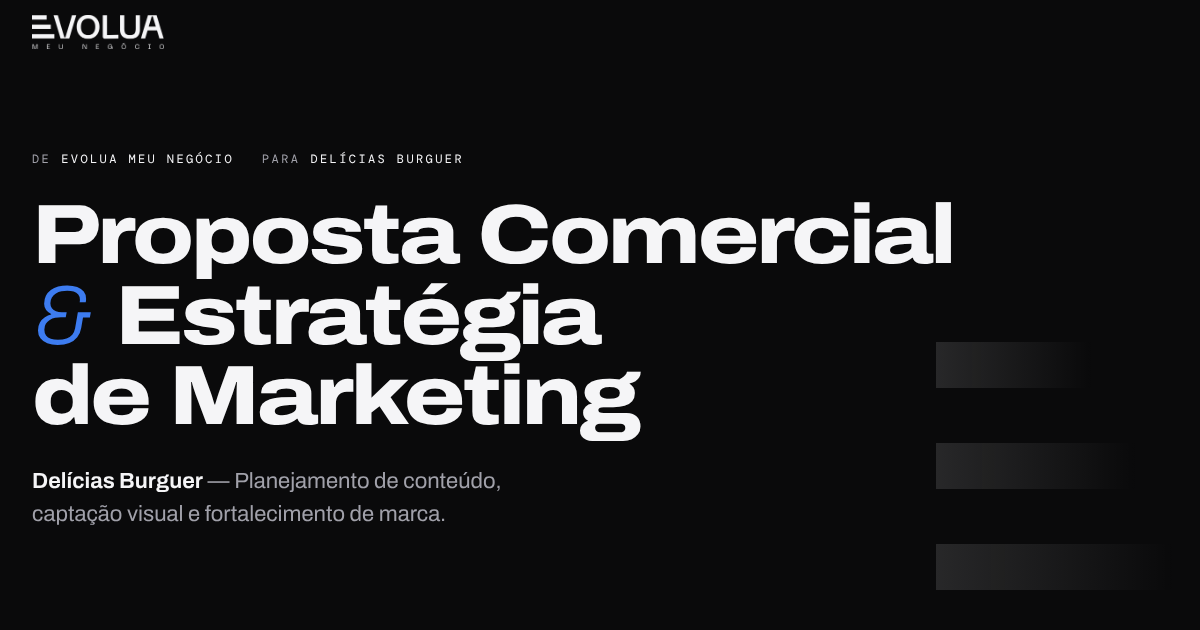
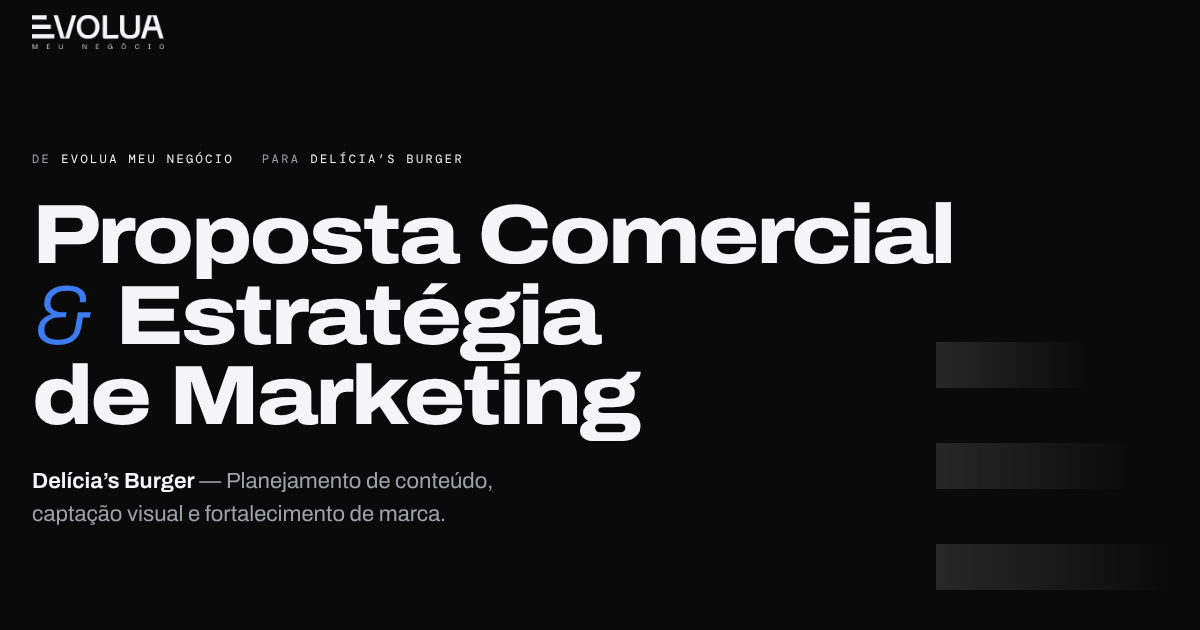
Usa o nome Delícia’s Burger em toda a proposta
O nome do cliente segue o perfil oficial no Instagram, inclusive nas
mensagens prontas do WhatsApp e na imagem de prévia do link.

Claude-Session: https://claude.ai/code/session_015CNoLvbhooBzDsHDVBEyaW

Changed region(s): [[0.0617, 0.754, 0.4317, 0.7841], [0.3083, 0.2413, 0.37, 0.2714]]

diff --git a/propostas/delicias-burguer/site/index.html b/propostas/delicias-burguer/site/index.html
@@ -3,14 +3,14 @@
 <head>
   <meta charset="utf-8" />
   <meta name="viewport" content="width=device-width, initial-scale=1, viewport-fit=cover" />
-  <title>Proposta Delícias Burguer · Evolua Meu Negócio</title>
-  <meta name="description" content="Proposta comercial e estratégia de marketing da Evolua Meu Negócio para a Delícias Burguer: planos mensais de posts, vídeos e ensaios fotográficos." />
+  <title>Proposta Delícia’s Burger · Evolua Meu Negócio</title>
+  <meta name="description" content="Proposta comercial e estratégia de marketing da Evolua Meu Negócio para a Delícia’s Burger: planos mensais de posts, vídeos e ensaios fotográficos." />
   <!-- Proposta para um cliente específico: fora dos buscadores. -->
   <meta name="robots" content="noindex, nofollow" />
   <meta name="theme-color" content="#0a0a0b" />
   <meta property="og:type" content="website" />
   <meta property="og:locale" content="pt_BR" />
-  <meta property="og:title" content="Proposta Comercial · Delícias Burguer" />
+  <meta property="og:title" content="Proposta Comercial · Delícia’s Burger" />
   <meta property="og:description" content="Planejamento de conteúdo, captação visual e fortalecimento de marca. Planos a partir de R$ 600,00 por mês." />
   <meta property="og:url" content="https://proposta-delicias-burguer.bottlenose-derby.workers.dev/" />
   <meta property="og:image" content="https://proposta-delicias-burguer.bottlenose-derby.workers.dev/og.png" />
@@ -834,10 +834,10 @@
       <div class="wrap hero__in">
         <p class="remetente" data-entra style="--d:0">
           <span><em>De</em>Evolua Meu Negócio</span>
-          <span><em>Para</em>Delícias Burguer</span>
+          <span><em>Para</em>Delícia’s Burger</span>
         </p>
         <h1 class="hero__titulo" id="titulo" data-entra style="--d:1">Proposta Comercial <span class="amp">&amp;</span> Estratégia de Marketing</h1>
-        <p class="hero__sub" data-entra style="--d:2"><strong>Delícias Burguer</strong> — Planejamento de conteúdo, captação visual e fortalecimento de marca.</p>
+        <p class="hero__sub" data-entra style="--d:2"><strong>Delícia’s Burger</strong> — Planejamento de conteúdo, captação visual e fortalecimento de marca.</p>
         <div class="hero__acoes" data-entra style="--d:3">
           <a class="btn btn--cheio" href="#planos">Ver os planos</a>
           <a class="link-seta" href="#comparativo"><span>Comparar o escopo</span>
@@ -855,7 +855,7 @@
         <div>
           <p class="rotulo">Diagnóstico e necessidades</p>
           <h2 class="titulo-secao" id="diag-titulo">Três pilares de melhoria</h2>
-          <p class="intro">A decisão de pedir acontece no celular: no feed, nos vídeos e no site de pedidos. Para a Delícias Burguer ser escolhida ali, o lanche precisa aparecer bem, com frequência e com informação clara.</p>
+          <p class="intro">A decisão de pedir acontece no celular: no feed, nos vídeos e no site de pedidos. Para a Delícia’s Burger ser escolhida ali, o lanche precisa aparecer bem, com frequência e com informação clara.</p>
         </div>
         <ul class="pilares">
           <li class="pilar">
@@ -928,7 +928,7 @@
 
             <div class="plano__acao">
               <a class="btn btn--contorno btn--largo" data-plano="essencial" target="_blank" rel="noopener"
-                 href="https://wa.me/5527998539014?text=Ol%C3%A1!%20Gostaria%20de%20fechar%20o%20Plano%20Essencial%20de%20R%24%20600%2C00%20para%20a%20Del%C3%ADcias%20Burguer%20com%20a%20Evolua%20Meu%20Neg%C3%B3cio.">
+                 href="https://wa.me/5527998539014?text=Ol%C3%A1!%20Gostaria%20de%20fechar%20o%20Plano%20Essencial%20de%20R%24%20600%2C00%20para%20a%20Del%C3%ADcia%E2%80%99s%20Burger%20com%20a%20Evolua%20Meu%20Neg%C3%B3cio.">
                 <svg viewBox="0 0 24 24" fill="none" stroke="currentColor" stroke-width="1.7" stroke-linejoin="round" aria-hidden="true"><path d="M4 19.5 5.3 16A8 8 0 1 1 8 18.7z"/></svg>
                 Contratar Plano Essencial
               </a>
@@ -980,7 +980,7 @@
 
             <div class="plano__acao">
               <a class="btn btn--cheio btn--largo" data-plano="recomendado" target="_blank" rel="noopener"
-                 href="https://wa.me/5527998539014?text=Ol%C3%A1!%20Gostaria%20de%20fechar%20o%20Plano%20Recomendado%20de%20R%24%20850%2C00%20para%20a%20Del%C3%ADcias%20Burguer%20com%20a%20Evolua%20Meu%20Neg%C3%B3cio.">
+                 href="https://wa.me/5527998539014?text=Ol%C3%A1!%20Gostaria%20de%20fechar%20o%20Plano%20Recomendado%20de%20R%24%20850%2C00%20para%20a%20Del%C3%ADcia%E2%80%99s%20Burger%20com%20a%20Evolua%20Meu%20Neg%C3%B3cio.">
                 <svg viewBox="0 0 24 24" fill="none" stroke="currentColor" stroke-width="1.7" stroke-linejoin="round" aria-hidden="true"><path d="M4 19.5 5.3 16A8 8 0 1 1 8 18.7z"/></svg>
                 Contratar Plano Recomendado
               </a>
@@ -1045,12 +1045,12 @@
               <td>
                 <b>R$ 600,00</b>
                 <a class="btn btn--contorno btn--mini" data-plano="essencial" target="_blank" rel="noopener" aria-label="Contratar Plano Essencial pelo WhatsApp"
-                   href="https://wa.me/5527998539014?text=Ol%C3%A1!%20Gostaria%20de%20fechar%20o%20Plano%20Essencial%20de%20R%24%20600%2C00%20para%20a%20Del%C3%ADcias%20Burguer%20com%20a%20Evolua%20Meu%20Neg%C3%B3cio.">Contratar</a>
+                   href="https://wa.me/5527998539014?text=Ol%C3%A1!%20Gostaria%20de%20fechar%20o%20Plano%20Essencial%20de%20R%24%20600%2C00%20para%20a%20Del%C3%ADcia%E2%80%99s%20Burger%20com%20a%20Evolua%20Meu%20Neg%C3%B3cio.">Contratar</a>
               </td>
               <td class="destaque">
                 <b>R$ 850,00</b>
                 <a class="btn btn--cheio btn--mini" data-plano="recomendado" target="_blank" rel="noopener" aria-label="Contratar Plano Recomendado pelo WhatsApp"
-                   href="https://wa.me/5527998539014?text=Ol%C3%A1!%20Gostaria%20de%20fechar%20o%20Plano%20Recomendado%20de%20R%24%20850%2C00%20para%20a%20Del%C3%ADcias%20Burguer%20com%20a%20Evolua%20Meu%20Neg%C3%B3cio.">Contratar</a>
+                   href="https://wa.me/5527998539014?text=Ol%C3%A1!%20Gostaria%20de%20fechar%20o%20Plano%20Recomendado%20de%20R%24%20850%2C00%20para%20a%20Del%C3%ADcia%E2%80%99s%20Burger%20com%20a%20Evolua%20Meu%20Neg%C3%B3cio.">Contratar</a>
               </td>
             </tr>
           </tfoot>
@@ -1064,7 +1064,7 @@
         <div>
           <p class="rotulo rotulo--azul">Bônus exclusivo do Plano Recomendado</p>
           <h2 class="titulo-secao" id="bonus-titulo">Estruturação completa do perfil</h2>
-          <p class="intro">Partimos do perfil atual da Delícias Burguer e organizamos bio, destaques e grade para que quem chega pelo feed, por um vídeo ou por indicação entenda em segundos o que pedir e como pedir.</p>
+          <p class="intro">Partimos do perfil atual da Delícia’s Burger e organizamos bio, destaques e grade para que quem chega pelo feed, por um vídeo ou por indicação entenda em segundos o que pedir e como pedir.</p>
           <dl class="bonus__itens">
             <div>
               <dt>Bio otimizada e links</dt>
@@ -1076,7 +1076,7 @@
             </div>
             <div>
               <dt>Identidade visual do perfil</dt>
-              <dd>Foto de perfil, cores e estilo dos posts alinhados, para a grade ter a cara da Delícias Burguer de ponta a ponta.</dd>
+              <dd>Foto de perfil, cores e estilo dos posts alinhados, para a grade ter a cara da Delícia’s Burger de ponta a ponta.</dd>
             </div>
           </dl>
         </div>
@@ -1085,9 +1085,9 @@
           <div class="perfil__tela">
             <p class="perfil__usuario">deliciasburger</p>
             <div class="perfil__cabeca">
-              <img class="perfil__foto" src="ig-perfil.jpg" width="72" height="72" alt="Logo da Delícia's Burger" />
+              <img class="perfil__foto" src="ig-perfil.jpg" width="72" height="72" alt="Logo da Delícia’s Burger" />
               <div>
-                <p class="perfil__nome">Delícia's Burger</p>
+                <p class="perfil__nome">Delícia’s Burger</p>
                 <p class="perfil__numeros">
                   <span><b>103</b>posts</span>
                   <span><b>5.527</b>seguidores</span>
@@ -1124,7 +1124,7 @@
 
             <div class="perfil__grade">
               <span class="perfil__tag">Grade</span>
-              <img src="ig-grade-1.jpg" width="300" height="400" alt="Post de aniversário da Delícia's Burger" />
+              <img src="ig-grade-1.jpg" width="300" height="400" alt="Post de aniversário da Delícia’s Burger" />
               <img src="ig-grade-2.jpg" width="300" height="400" alt="Post: combo de lanches, anéis de cebola e fritas com cheddar" />
               <img src="ig-grade-3.jpg" width="300" height="400" alt="Post: Burger ou combo?" />
               <img src="ig-grade-4.jpg" width="300" height="323" alt="Post: dois burgers com fritas e refrigerantes" />
@@ -1133,7 +1133,7 @@
             </div>
           </div>
           <figcaption>
-            <span>Perfil atual da Delícia's Burger no Instagram</span>
+            <span>Perfil atual da Delícia’s Burger no Instagram</span>
             <a href="https://www.instagram.com/deliciasburger/" target="_blank" rel="noopener">Abrir @deliciasburger</a>
           </figcaption>
         </figure>
@@ -1170,12 +1170,12 @@
         <p class="intro">Cada botão abre uma conversa com a mensagem pronta, já com o plano e o valor. É só enviar.</p>
         <div class="fechamento__acoes">
           <a class="btn btn--cheio" data-plano="recomendado" target="_blank" rel="noopener"
-             href="https://wa.me/5527998539014?text=Ol%C3%A1!%20Gostaria%20de%20fechar%20o%20Plano%20Recomendado%20de%20R%24%20850%2C00%20para%20a%20Del%C3%ADcias%20Burguer%20com%20a%20Evolua%20Meu%20Neg%C3%B3cio.">
+             href="https://wa.me/5527998539014?text=Ol%C3%A1!%20Gostaria%20de%20fechar%20o%20Plano%20Recomendado%20de%20R%24%20850%2C00%20para%20a%20Del%C3%ADcia%E2%80%99s%20Burger%20com%20a%20Evolua%20Meu%20Neg%C3%B3cio.">
             <svg viewBox="0 0 24 24" fill="none" stroke="currentColor" stroke-width="1.7" stroke-linejoin="round" aria-hidden="true"><path d="M4 19.5 5.3 16A8 8 0 1 1 8 18.7z"/></svg>
             Contratar Plano Recomendado
           </a>
           <a class="btn btn--contorno" data-plano="essencial" target="_blank" rel="noopener"
-             href="https://wa.me/5527998539014?text=Ol%C3%A1!%20Gostaria%20de%20fechar%20o%20Plano%20Essencial%20de%20R%24%20600%2C00%20para%20a%20Del%C3%ADcias%20Burguer%20com%20a%20Evolua%20Meu%20Neg%C3%B3cio.">
+             href="https://wa.me/5527998539014?text=Ol%C3%A1!%20Gostaria%20de%20fechar%20o%20Plano%20Essencial%20de%20R%24%20600%2C00%20para%20a%20Del%C3%ADcia%E2%80%99s%20Burger%20com%20a%20Evolua%20Meu%20Neg%C3%B3cio.">
             <svg viewBox="0 0 24 24" fill="none" stroke="currentColor" stroke-width="1.7" stroke-linejoin="round" aria-hidden="true"><path d="M4 19.5 5.3 16A8 8 0 1 1 8 18.7z"/></svg>
             Contratar Plano Essencial
           </a>
@@ -1202,8 +1202,8 @@
       var WHATSAPP_NUMERO = '5527998539014';
 
       var MENSAGENS = {
-        essencial: 'Olá! Gostaria de fechar o Plano Essencial de R$ 600,00 para a Delícias Burguer com a Evolua Meu Negócio.',
-        recomendado: 'Olá! Gostaria de fechar o Plano Recomendado de R$ 850,00 para a Delícias Burguer com a Evolua Meu Negócio.'
+        essencial: 'Olá! Gostaria de fechar o Plano Essencial de R$ 600,00 para a Delícia’s Burger com a Evolua Meu Negócio.',
+        recomendado: 'Olá! Gostaria de fechar o Plano Recomendado de R$ 850,00 para a Delícia’s Burger com a Evolua Meu Negócio.'
       };
       var numero = WHATSAPP_NUMERO.replace(/\D/g, '');
       document.querySelectorAll('[data-plano]').forEach(function (link) {

diff --git a/README.md b/README.md
@@ -186,7 +186,7 @@ Páginas de uma só tela, separadas do painel: cada proposta é publicada como u
 
 | Cliente | Endereço | Pasta | Publicar |
 | --- | --- | --- | --- |
-| Delícias Burguer | https://proposta-delicias-burguer.bottlenose-derby.workers.dev | `propostas/delicias-burguer/` | `npm run deploy:proposta` |
+| Delícia’s Burger | https://proposta-delicias-burguer.bottlenose-derby.workers.dev | `propostas/delicias-burguer/` | `npm run deploy:proposta` |
 
 - `site/` tem tudo o que a página usa: o HTML (estilos e script embutidos), a logo da Evolua Meu Negócio, a
   imagem de prévia (`og.png`) que aparece quando o link é enviado pelo WhatsApp e os cabeçalhos (`_headers`).
